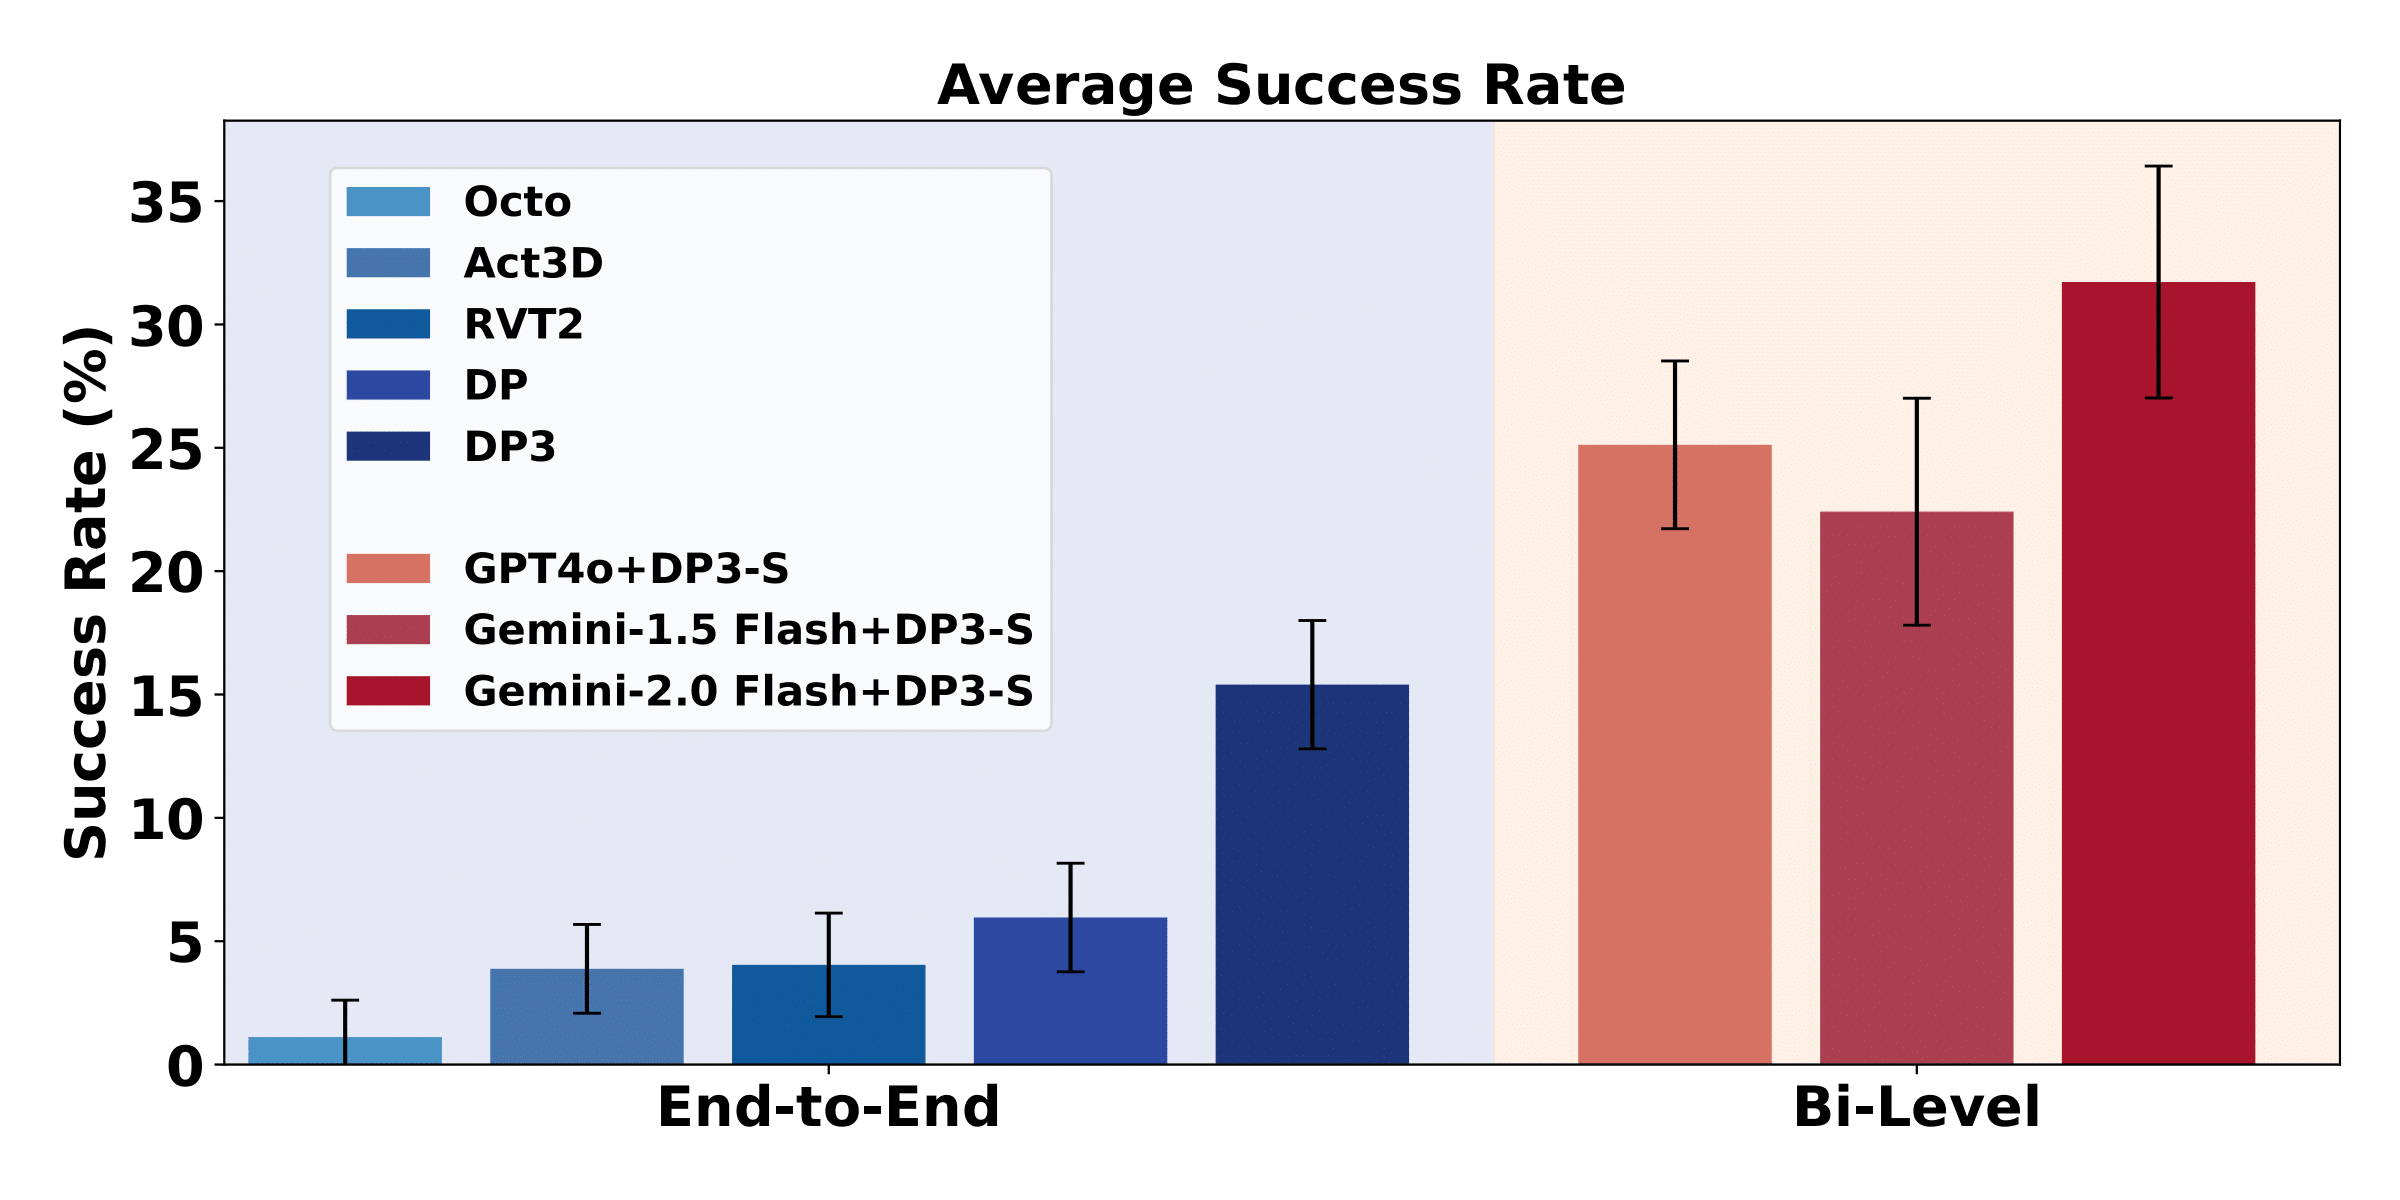
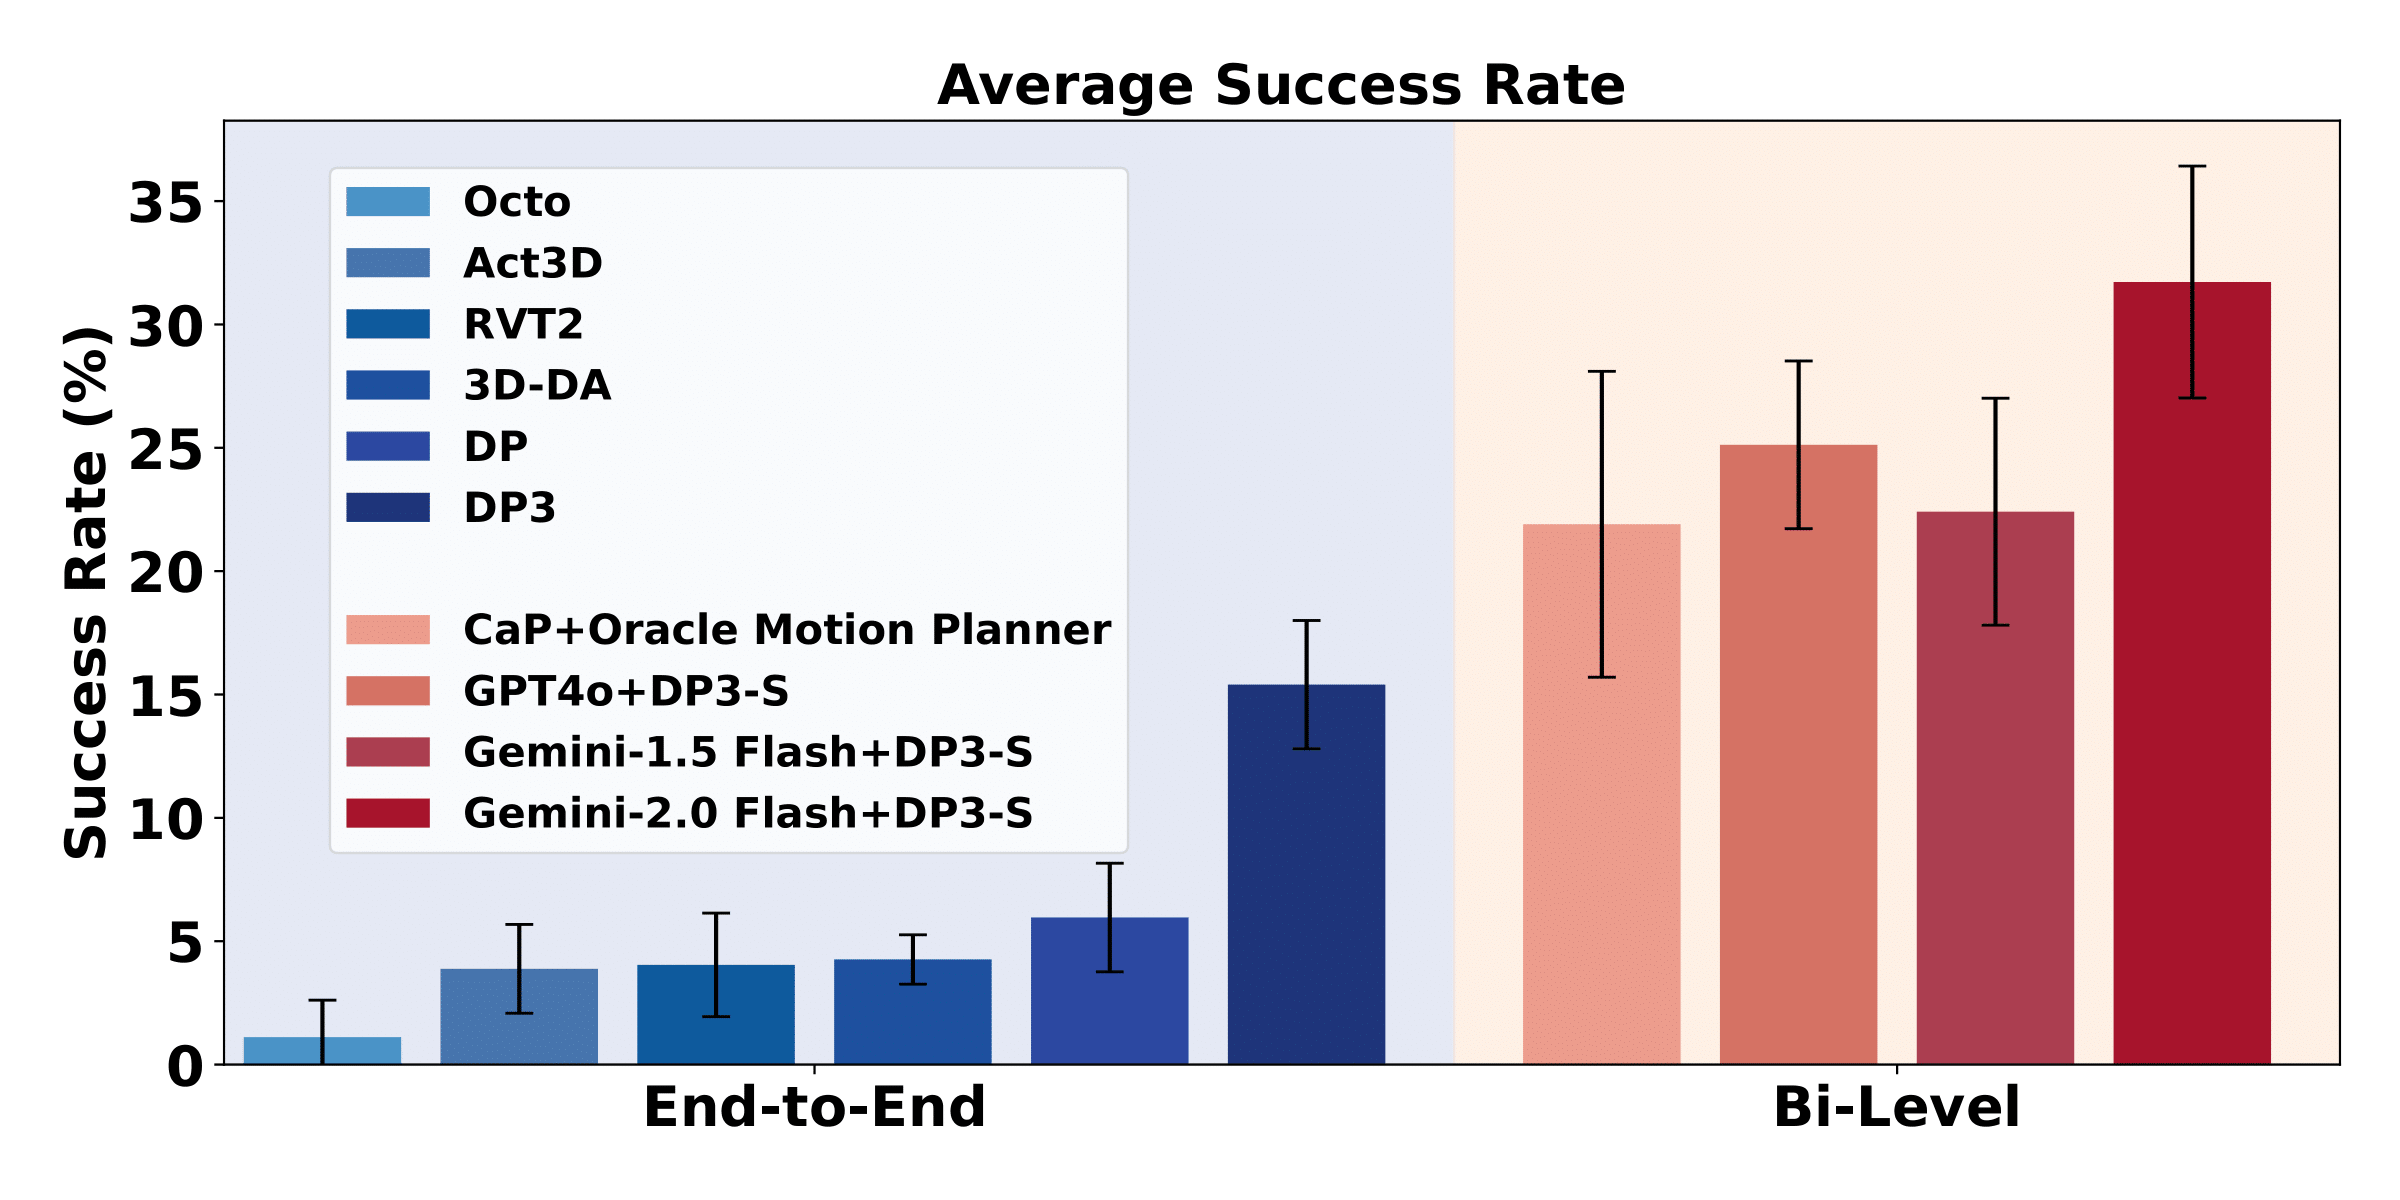
Updated demos

diff --git a/index.html b/index.html
@@ -600,7 +600,7 @@
                   src="./static/images/figure_bar_plot_with_background_new-1.png"
                   class="image"
                   alt="Part counts among skills"
-                  style="max-width: 85%"
+                  style="max-width: 95%"
                 />
                 <figcaption>
                   Success Rates of all baselines. The left group represents
@@ -615,7 +615,8 @@
             <div class="content has-text-justified">
               <p>
                 We evaluate several state-of-the-art end-to-end robot
-                manipulation policy learning methods, including DP, DP3, Act3D,
+                manipulation policy learning methods, including Diffusion Policy (DP), 
+                3D Diffusion Policy (DP3), Act3D, 3D Diffuser Actor (3D-DA),
                 RVT2 and Octo. Note that the original DP and DP3 models do not
                 support language inputs. To fit the setup of PartInstruct, we
                 use a pre-trained T5 language encoder to get the language
